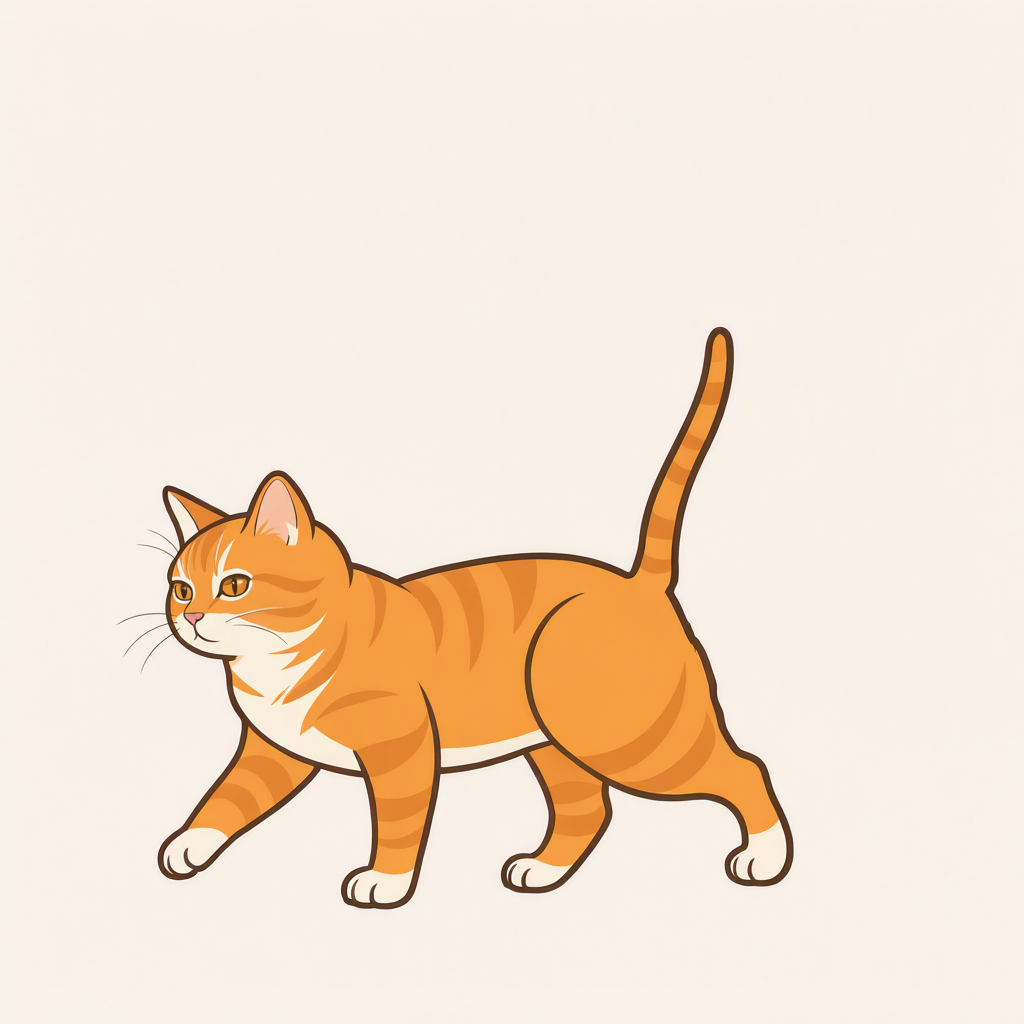
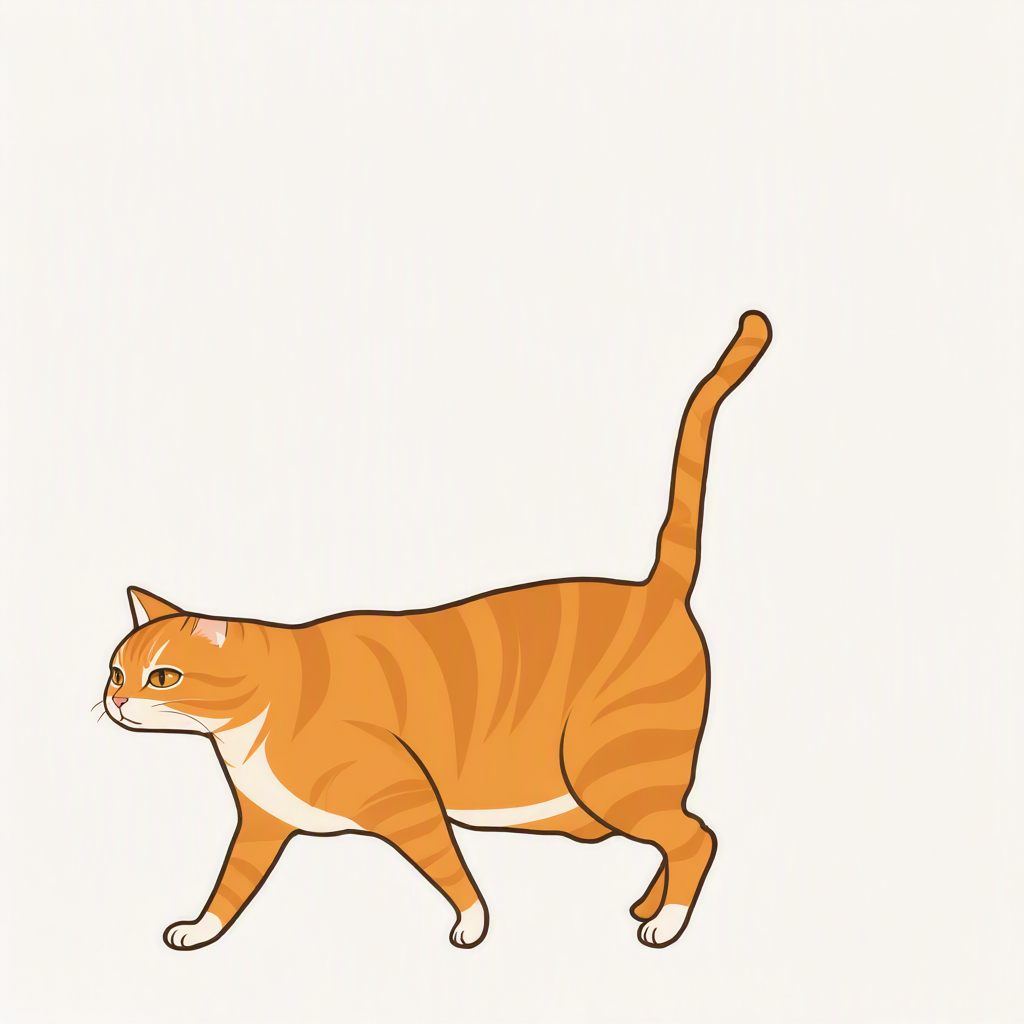
fix(pet): rebuild walk at reference cadence
Replace the seven-frame cycle with all thirteen phases from the
owner-provided walk GIF at roughly 65 ms per frame, so the front paws
alternate through a full gait cycle instead of repeating one contact.

Refs #121

Changed region(s): [[0.0938, 0.2812, 0.7812, 0.9375]]

diff --git a/docs/pet-art-spec.md b/docs/pet-art-spec.md
@@ -49,10 +49,10 @@
 | 睡眠（`Sleep`） | 闭眼慢呼吸；循环；`Zzz` 由 UI 叠加 | 2 帧 · 2000 ms/帧 · 循环 |
 | 醒来（`Wake`） | 睁眼/起身；回 `LyingIdle` | 3 帧 · 150 ms/帧 · 一次性 |
 | 起身/伸懒腰（`Stretch`） | 趴 → 走的过渡；不循环 | 4 帧 · 120 ms/帧 · 一次性 |
-| 走路（`Walk`） | 侧/3-4 走路循环；一个方向，另一方向水平镜像；步幅与页面内速度匹配，不滑步 | 7 帧 · 120 ms/帧（约 8.3 fps）· 循环 |
+| 走路（`Walk`） | 侧/3-4 走路循环；一个方向，另一方向水平镜像；步幅与页面内速度匹配，不滑步 | 13 帧 · 65 ms/帧（约 15.4 fps）· 循环 |
 
 - **帧数与时长已由 #121 冻结**（见上表）；`MyJiuMiAnimationCatalog` 按此表实现。
-- 走路按 owner 提供的 GIF 步态参考重画为 7 帧，覆盖一个完整循环（约 0.84 s）；左右腿交替，不再复用同一侧 contact。
+- 走路按 owner 提供的 GIF 步态参考重画为 13 帧，覆盖一个完整循环（约 0.845 s）；左右腿交替，不再复用同一侧 contact。
 - 爱心与 `Zzz` 是 UI 矢量元素，**不要烘焙进帧**。
 - 眨眼只在 `LyingIdle` 触发；`React`/`Drag`/`Sleep` 中不画眨眼。
 - 走路帧按页面内位移速度匹配；页面约 80 DIP/s 的自主闲逛与召唤共用一个循环，方向靠水平镜像，不单独画反方向。
@@ -77,7 +77,7 @@
 | 文件名 | 两位序号，从 `00.png` 开始；按播放顺序编号 |
 | 清单 | 由 `MyJiuMiAnimationCatalog` 定义帧序与时长；导出时同时给出「状态 → 帧数 → 时长」表 |
 | 源文件/原图 | ImageGen 原图与导出 PNG 进 git；方向稿在 `docs/images/pet/direction-117/`，最终帧原图在 `docs/images/pet/final-121/`；临时试稿、废稿、带水印参考图不进 git；不再要求 SVG/Krita/PSD/AI 矢量源 |
-| 体积 | 28 帧导出约 2.2 MB；13 张原图约 11.2 MB（不进应用包） |
+| 体积 | 34 帧导出约 2.7 MB；19 张原图约 15.9 MB（不进应用包） |
 
 - 导出前删除隐藏图层、背景、参考线、文字；只保留猫本体。
 - 每帧独立 PNG，不用雪碧图；Avalonia 侧按状态按需加载。
